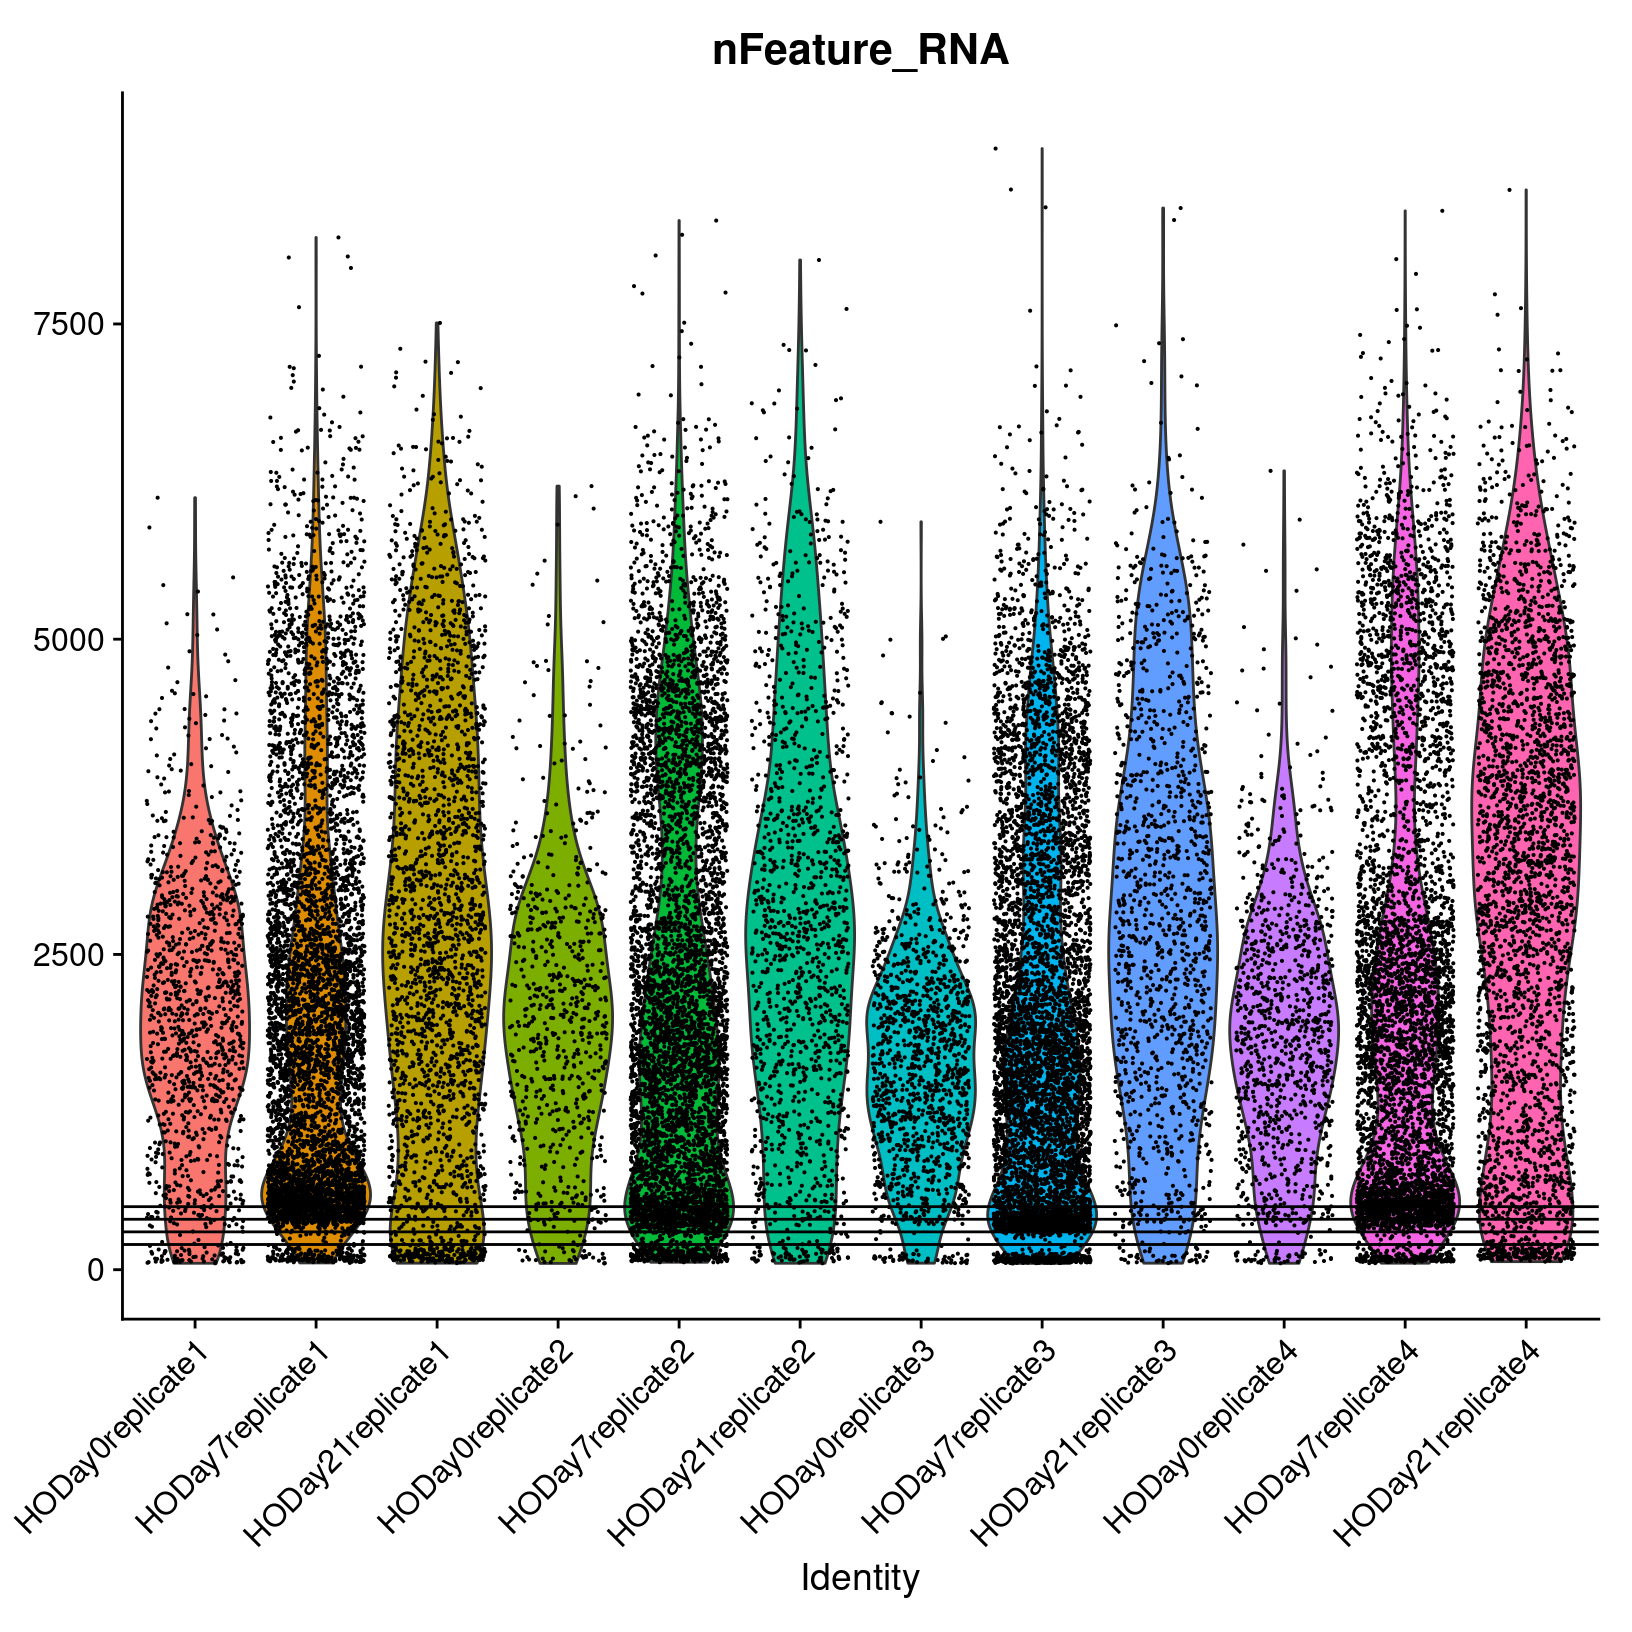
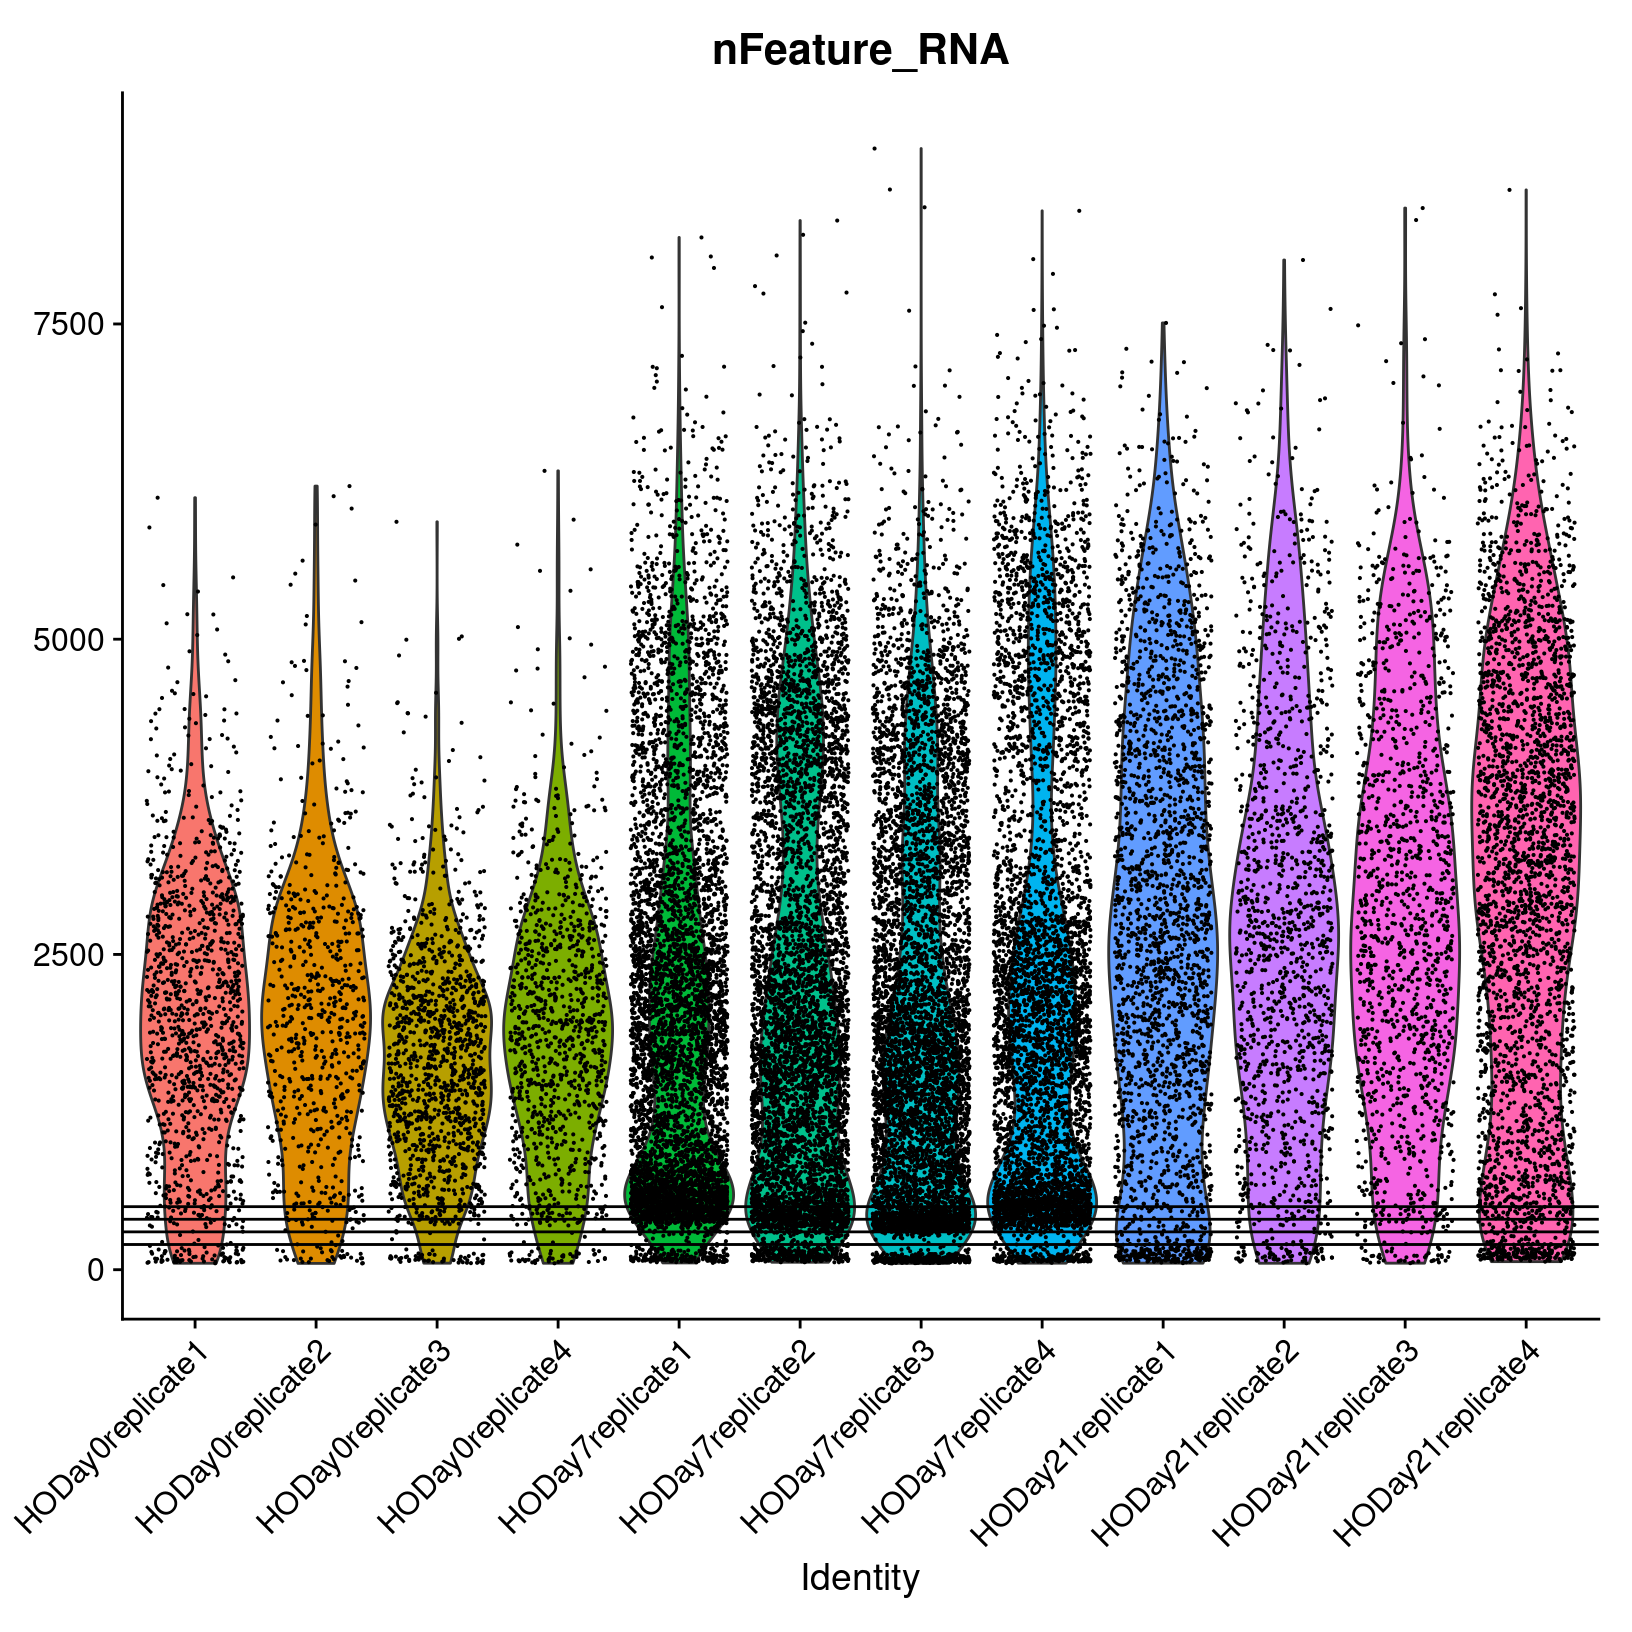
Separate run-on code blocks and fix pheno table

diff --git a/html/02-QCandFiltering.html b/html/02-QCandFiltering.html
@@ -526,16 +526,11 @@ Day21, and Day7.</p>
 # Load the expanded phenotype columns (condition, day, and replicate)
 phenos = read.csv(&#39;inputs/phenos.csv&#39;)
 head(phenos, 3)</code></pre>
-<pre><code>  X condition   day  replicate        orig.ident
-1 1        HO  Day0 replicate1  HODay0replicate1
-2 2        HO  Day7 replicate1  HODay7replicate1
-3 3        HO Day21 replicate1 HODay21replicate1</code></pre>
-<pre class="r"><code>#         orig.ident condition  day  replicate
-# 1 HODay0replicate1        HO Day0 replicate1
-# 2 HODay0replicate2        HO Day0 replicate2
-# 3 HODay0replicate3        HO Day0 replicate3
-
-# Make a temp table that joins Seurat loaded metadata with expanded phenotype columns
+<pre><code>        orig.ident condition  day  replicate
+1 HODay0replicate1        HO Day0 replicate1
+2 HODay0replicate2        HO Day0 replicate2
+3 HODay0replicate3        HO Day0 replicate3</code></pre>
+<pre class="r"><code># Make a temp table that joins Seurat loaded metadata with expanded phenotype columns
 # (Also, preserve the rownames and order samples based on order in phenos.csv)
 tmp_meta = geo_so@meta.data %&gt;% 
   rownames_to_column(&#39;tmp_rowname&#39;) %&gt;%
@@ -543,13 +538,13 @@ tmp_meta = geo_so@meta.data %&gt;%
   mutate(orig.ident = factor(orig.ident, phenos$orig.ident)) %&gt;%
   column_to_rownames(&#39;tmp_rowname&#39;)
 head(tmp_meta)  </code></pre>
-<pre><code>                                          orig.ident nCount_RNA nFeature_RNA X condition  day  replicate
-HODay0replicate1_AAACCTGAGAGAACAG-1 HODay0replicate1      10234         3226 1        HO Day0 replicate1
-HODay0replicate1_AAACCTGGTCATGCAT-1 HODay0replicate1       3158         1499 1        HO Day0 replicate1
-HODay0replicate1_AAACCTGTCAGAGCTT-1 HODay0replicate1      13464         4102 1        HO Day0 replicate1
-HODay0replicate1_AAACGGGAGAGACTTA-1 HODay0replicate1        577          346 1        HO Day0 replicate1
-HODay0replicate1_AAACGGGAGGCCCGTT-1 HODay0replicate1       1189          629 1        HO Day0 replicate1
-HODay0replicate1_AAACGGGCAACTGGCC-1 HODay0replicate1       7726         2602 1        HO Day0 replicate1</code></pre>
+<pre><code>                                          orig.ident nCount_RNA nFeature_RNA condition  day  replicate
+HODay0replicate1_AAACCTGAGAGAACAG-1 HODay0replicate1      10234         3226        HO Day0 replicate1
+HODay0replicate1_AAACCTGGTCATGCAT-1 HODay0replicate1       3158         1499        HO Day0 replicate1
+HODay0replicate1_AAACCTGTCAGAGCTT-1 HODay0replicate1      13464         4102        HO Day0 replicate1
+HODay0replicate1_AAACGGGAGAGACTTA-1 HODay0replicate1        577          346        HO Day0 replicate1
+HODay0replicate1_AAACGGGAGGCCCGTT-1 HODay0replicate1       1189          629        HO Day0 replicate1
+HODay0replicate1_AAACGGGCAACTGGCC-1 HODay0replicate1       7726         2602        HO Day0 replicate1</code></pre>
 <pre class="r"><code># Assign tmp_meta back to geo_so@meta.data and reset the default identity cell name
 geo_so@meta.data = tmp_meta
 Idents(geo_so) = &#39;orig.ident&#39;</code></pre>
@@ -558,13 +553,13 @@ factor with ordering we prefer. We also have <code>day</code> and
 <code>replicate</code> columns that will be useful downstream.</p>
 <pre class="r"><code># Re-examine Seurat metdata  -------------------------------------------
 head(geo_so@meta.data)</code></pre>
-<pre><code>                                          orig.ident nCount_RNA nFeature_RNA X condition  day  replicate
-HODay0replicate1_AAACCTGAGAGAACAG-1 HODay0replicate1      10234         3226 1        HO Day0 replicate1
-HODay0replicate1_AAACCTGGTCATGCAT-1 HODay0replicate1       3158         1499 1        HO Day0 replicate1
-HODay0replicate1_AAACCTGTCAGAGCTT-1 HODay0replicate1      13464         4102 1        HO Day0 replicate1
-HODay0replicate1_AAACGGGAGAGACTTA-1 HODay0replicate1        577          346 1        HO Day0 replicate1
-HODay0replicate1_AAACGGGAGGCCCGTT-1 HODay0replicate1       1189          629 1        HO Day0 replicate1
-HODay0replicate1_AAACGGGCAACTGGCC-1 HODay0replicate1       7726         2602 1        HO Day0 replicate1</code></pre>
+<pre><code>                                          orig.ident nCount_RNA nFeature_RNA condition  day  replicate
+HODay0replicate1_AAACCTGAGAGAACAG-1 HODay0replicate1      10234         3226        HO Day0 replicate1
+HODay0replicate1_AAACCTGGTCATGCAT-1 HODay0replicate1       3158         1499        HO Day0 replicate1
+HODay0replicate1_AAACCTGTCAGAGCTT-1 HODay0replicate1      13464         4102        HO Day0 replicate1
+HODay0replicate1_AAACGGGAGAGACTTA-1 HODay0replicate1        577          346        HO Day0 replicate1
+HODay0replicate1_AAACGGGAGGCCCGTT-1 HODay0replicate1       1189          629        HO Day0 replicate1
+HODay0replicate1_AAACGGGCAACTGGCC-1 HODay0replicate1       7726         2602        HO Day0 replicate1</code></pre>
 </div>
 <div id="quality-metrics" class="section level1">
 <h1>Quality Metrics</h1>
@@ -629,16 +624,16 @@ cell_counts_pre_tbl = geo_so@meta.data %&gt;% count(orig.ident, name = &#39;pref
 cell_counts_pre_tbl</code></pre>
 <pre><code>          orig.ident prefilter_cells
 1   HODay0replicate1            1183
-2   HODay7replicate1            5762
-3  HODay21replicate1            2321
-4   HODay0replicate2             689
-5   HODay7replicate2            6020
-6  HODay21replicate2            1322
-7   HODay0replicate3            1310
-8   HODay7replicate3            6286
-9  HODay21replicate3            1275
-10  HODay0replicate4            1052
-11  HODay7replicate4            5167
+2   HODay0replicate2             689
+3   HODay0replicate3            1310
+4   HODay0replicate4            1052
+5   HODay7replicate1            5762
+6   HODay7replicate2            6020
+7   HODay7replicate3            6286
+8   HODay7replicate4            5167
+9  HODay21replicate1            2321
+10 HODay21replicate2            1322
+11 HODay21replicate3            1275
 12 HODay21replicate4            2829</code></pre>
 <p>It appears that the Day 7 samples have systematically more cells than
 the other days. If you had an idea of how many cells you expected to see
@@ -757,16 +752,16 @@ subset(geo_so, subset = nFeature_RNA &gt; 500 &amp; percent.mt &lt; 25)@meta.dat
     count(orig.ident, name = &#39;postfilter_cells&#39;)</code></pre>
 <pre><code>          orig.ident postfilter_cells
 1   HODay0replicate1             1049
-2   HODay7replicate1             4928
-3  HODay21replicate1             2000
-4   HODay0replicate2              615
-5   HODay7replicate2             4933
-6  HODay21replicate2             1182
-7   HODay0replicate3             1191
-8   HODay7replicate3             4897
-9  HODay21replicate3             1166
-10  HODay0replicate4              943
-11  HODay7replicate4             4243
+2   HODay0replicate2              615
+3   HODay0replicate3             1191
+4   HODay0replicate4              943
+5   HODay7replicate1             4928
+6   HODay7replicate2             4933
+7   HODay7replicate3             4897
+8   HODay7replicate4             4243
+9  HODay21replicate1             2000
+10 HODay21replicate2             1182
+11 HODay21replicate3             1166
 12 HODay21replicate4             2471</code></pre>
 </div>
 <div id="adaptive-thresholds" class="section level2">
@@ -799,16 +794,16 @@ cell_counts_post_tbl = geo_so@meta.data %&gt;% count(orig.ident, name = &#39;pos
 cell_counts_post_tbl</code></pre>
 <pre><code>          orig.ident postfilter_cells
 1   HODay0replicate1             1053
-2   HODay7replicate1             5213
-3  HODay21replicate1             2004
-4   HODay0replicate2              629
-5   HODay7replicate2             5324
-6  HODay21replicate2             1186
-7   HODay0replicate3             1222
-8   HODay7replicate3             5626
-9  HODay21replicate3             1178
-10  HODay0replicate4              970
-11  HODay7replicate4             4691
+2   HODay0replicate2              629
+3   HODay0replicate3             1222
+4   HODay0replicate4              970
+5   HODay7replicate1             5213
+6   HODay7replicate2             5324
+7   HODay7replicate3             5626
+8   HODay7replicate4             4691
+9  HODay21replicate1             2004
+10 HODay21replicate2             1186
+11 HODay21replicate3             1178
 12 HODay21replicate4             2463</code></pre>
 <p>Let’s combine the pre and post tables:</p>
 <pre class="r"><code># Show cell counts before and after filtering --------------------------
@@ -816,16 +811,16 @@ cell_counts_tbl = cell_counts_pre_tbl %&gt;% left_join(cell_counts_post_tbl, by 
 cell_counts_tbl</code></pre>
 <pre><code>          orig.ident prefilter_cells postfilter_cells
 1   HODay0replicate1            1183             1053
-2   HODay7replicate1            5762             5213
-3  HODay21replicate1            2321             2004
-4   HODay0replicate2             689              629
-5   HODay7replicate2            6020             5324
-6  HODay21replicate2            1322             1186
-7   HODay0replicate3            1310             1222
-8   HODay7replicate3            6286             5626
-9  HODay21replicate3            1275             1178
-10  HODay0replicate4            1052              970
-11  HODay7replicate4            5167             4691
+2   HODay0replicate2             689              629
+3   HODay0replicate3            1310             1222
+4   HODay0replicate4            1052              970
+5   HODay7replicate1            5762             5213
+6   HODay7replicate2            6020             5324
+7   HODay7replicate3            6286             5626
+8   HODay7replicate4            5167             4691
+9  HODay21replicate1            2321             2004
+10 HODay21replicate2            1322             1186
+11 HODay21replicate3            1275             1178
 12 HODay21replicate4            2829             2463</code></pre>
 <p>We can now easily see how many cells we started with, and how many we
 retained for downstream analysis. Let’s write this table to a file.</p>
